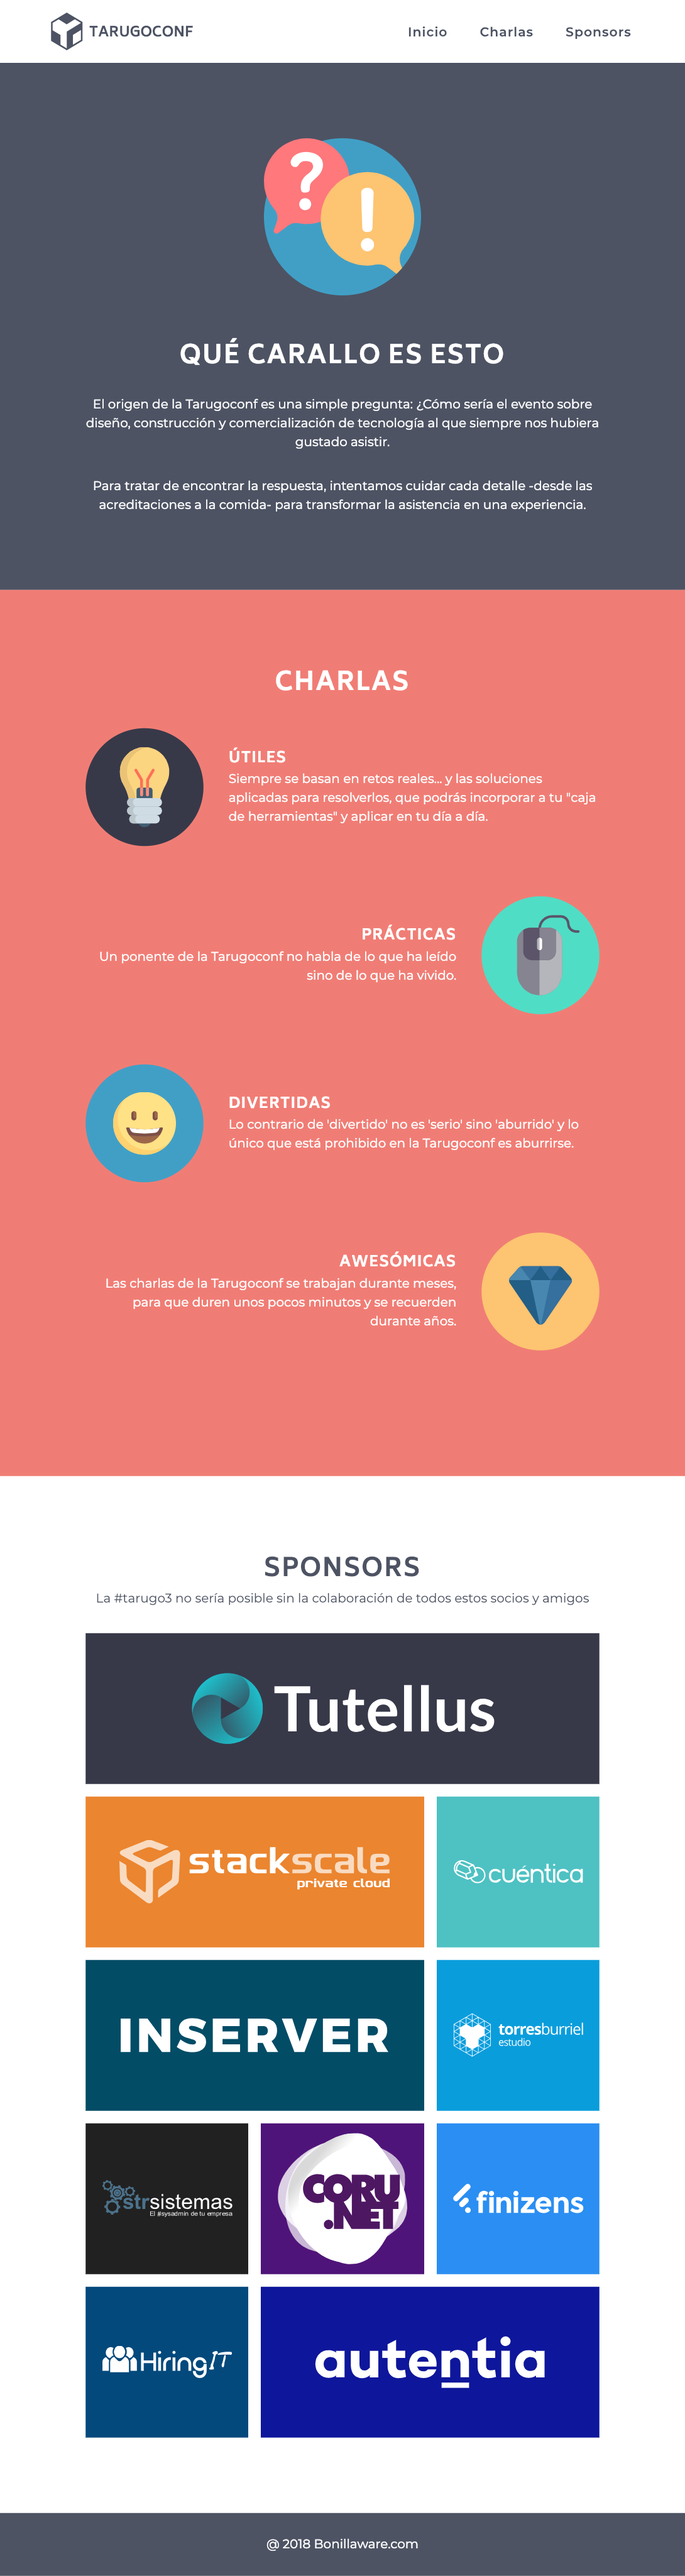
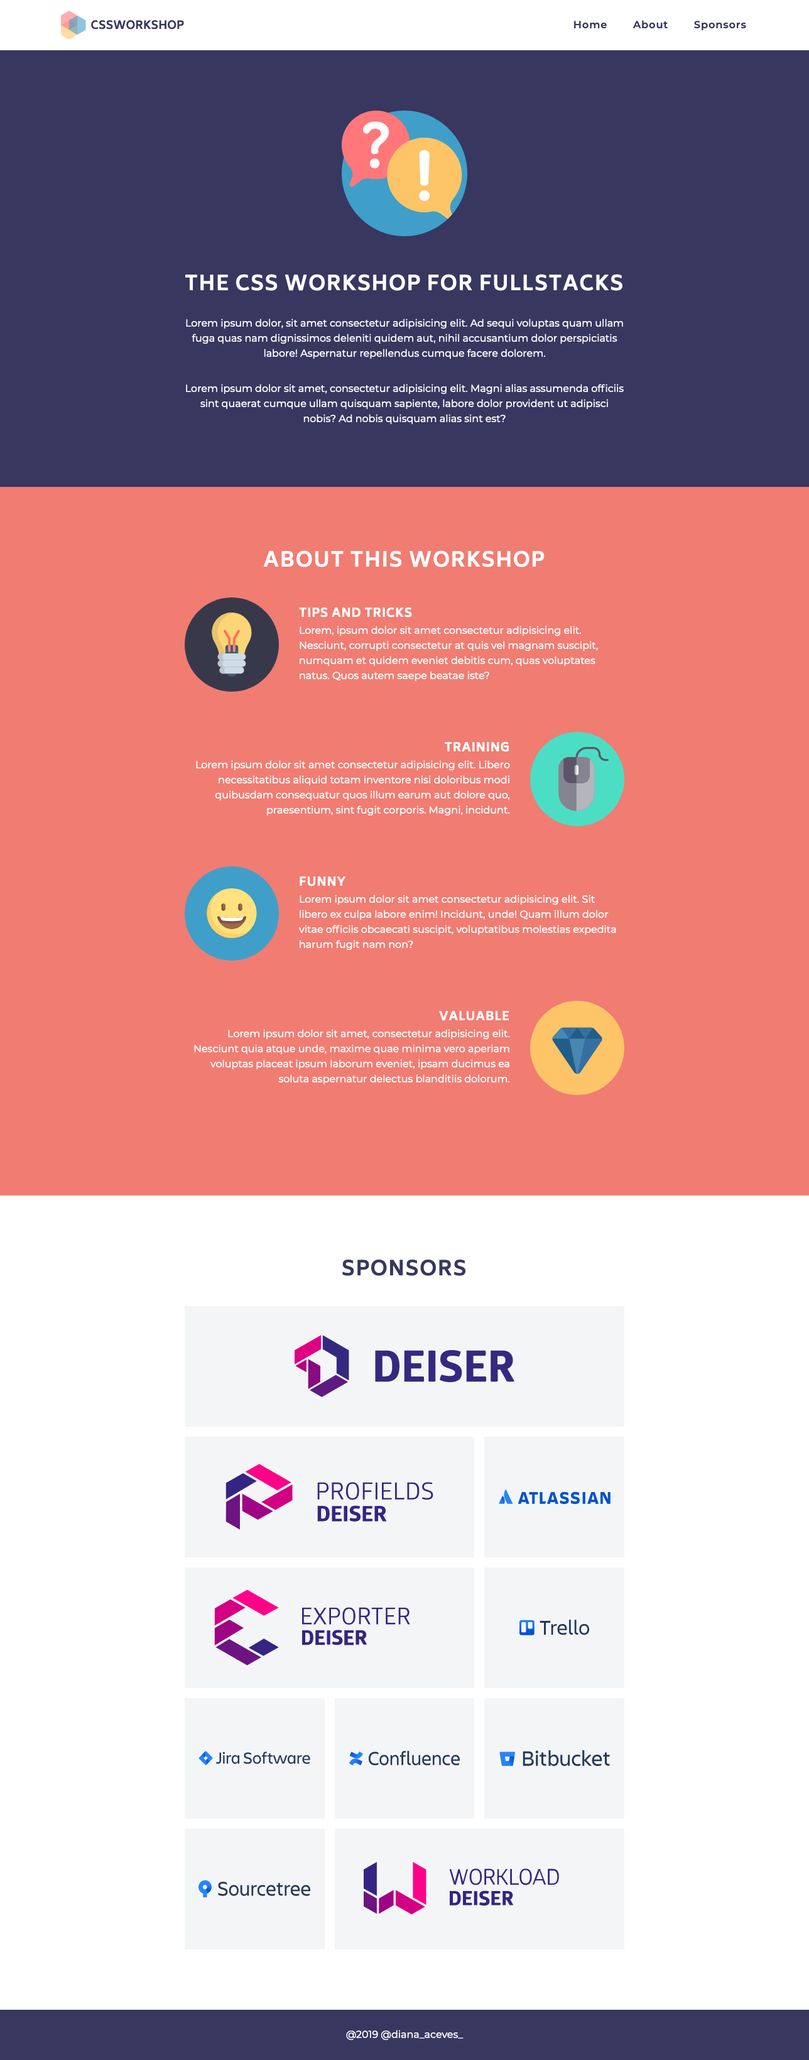
Update new design

diff --git a/dist/css/styles.min.css b/dist/css/styles.min.css
@@ -1,1 +1,1 @@
-:root{font-family:-apple-system, BlinkMacSystemFont, 'Segoe UI', Roboto, 'Helvetica Neue', Oxygen-Sans, Ubuntu, Cantarell, Arial, sans-serif, 'Apple Color Emoji', 'Segoe UI Emoji', 'Segoe UI Symbol';cursor:default;-webkit-box-sizing:border-box;box-sizing:border-box;-webkit-text-size-adjust:100%;-webkit-tap-highlight-color:rgba(0,0,0,0)}*,*::before,*::after,*:before,*:after{-webkit-box-sizing:inherit;box-sizing:inherit}[tabindex='-1']:focus{outline:none !important}@media (prefers-reduced-motion: reduce){*{-webkit-animation:none !important;animation:none !important;-webkit-transition:none !important;transition:none !important}}p{margin-top:0}hr{height:0;overflow:visible;clear:both}pre{overflow-x:auto}ul,ol{list-style-position:inside}figure{width:100%;margin:0}abbr[title]{border-bottom:none;-webkit-text-decoration:underline dotted;text-decoration:underline dotted}code,kbd,samp,pre{font-family:'SFMono-Regular', Consolas, 'Liberation Mono', Menlo, Courier, monospace;font-size:0.9em}b,strong{font-weight:bolder}small{font-size:0.85em}sub,sup{position:relative;font-size:75%;line-height:0;vertical-align:baseline}sub{bottom:-0.25em}sup{top:-0.5em}img,video,audio{max-width:100%;height:auto;vertical-align:middle;-ms-interpolation-mode:bicubic;border-style:none}iframe{border:0}button,input,optgroup,select,textarea{margin:0;font-family:inherit;font-size:1em}button,select{text-transform:none}button,[type='button'],[type='reset'],[type='submit']{-webkit-appearance:button}textarea,[type='email'],[type='password'],[type='search'],[type='tel'],[type='text'],[type='url'],[type='number'],[type='week'],[type='datetime'],input[list]{-webkit-appearance:button}button::-moz-focus-inner,[type='button']::-moz-focus-inner,[type='reset']::-moz-focus-inner,[type='submit']::-moz-focus-inner{padding:0;border-style:none}button:-moz-focusring,[type='button']:-moz-focusring,[type='reset']:-moz-focusring,[type='submit']:-moz-focusring{outline:1px dotted ButtonText}fieldset{padding:0.35em 0.75em 0.625em}legend{padding:0}progress{vertical-align:middle}[type='number']::-webkit-inner-spin-button,[type='number']::-webkit-outer-spin-button{height:auto}[type='search']{outline-offset:-2px;-webkit-appearance:textfield}[type='search']::-webkit-search-decoration{-webkit-appearance:none}::-webkit-file-upload-button{font:inherit;-webkit-appearance:button}pre,code,kbd,samp,var{cursor:text}abbr[title],dfn[title]{cursor:help}textarea,input[type='email'],input[type='password'],input[type='search'],input[type='tel'],input[type='text'],input[type='url'],input[type='number'],input[type='datetime']{cursor:text}select{cursor:context-menu}input[type='range']{cursor:col-resize}[disabled]{cursor:not-allowed !important}summary{display:list-item;outline:0}html,body,div,span,object,iframe,h1,h2,h3,h4,h5,h6,p,blockquote,pre,abbr,address,cite,code,del,dfn,em,img,ins,kbd,q,samp,small,strong,sub,sup,var,b,i,dl,dt,dd,ol,ul,li,fieldset,form,label,legend,table,caption,tbody,tfoot,thead,tr,th,td,article,aside,figure,footer,header,hgroup,menu,nav,section,time,mark,audio,video{margin:0;padding:0;border:0;outline:0;vertical-align:baseline;background:transparent}article,aside,details,figcaption,figure,footer,header,hgroup,main,nav,section,summary,audio,canvas,video{display:block}a{color:inherit;text-decoration:none;background-color:transparent;-webkit-text-decoration-skip:objects}a:active,a:hover,a:focus{outline:0;color:inherit}h1,.h1,h2,.h2,h3,.h3,h4,.h4,h5,.h5,h6,.h6{text-rendering:optimizelegibility}a>svg{pointer-events:none}button{border:none;-webkit-appearance:none;-moz-appearance:none;appearance:none;background-color:transparent;outline:none}ul{list-style:none}body{font-family:'Montserrat', sans-serif;line-height:1.5;background-color:white;font-weight:400;color:#4d5364;overflow-x:hidden;display:-webkit-box;display:-ms-flexbox;display:flex;-webkit-box-orient:vertical;-webkit-box-direction:normal;-ms-flex-direction:column;flex-direction:column;min-height:100vh}h1,h2,h3{font-weight:normal;text-transform:uppercase;font-family:'Biryani'}h2,h3{letter-spacing:.05em}.svg{width:100%;height:100%;display:block}.header--main{position:fixed;width:100%;top:0;left:0;z-index:1;background-color:#fff;font-size:.85em;font-weight:600}.header__wrapper{margin-left:auto;margin-right:auto;max-width:75rem;width:85%;height:5rem;display:-webkit-box;display:-ms-flexbox;display:flex;-webkit-box-align:center;-ms-flex-align:center;align-items:center;-webkit-box-pack:justify;-ms-flex-pack:justify;justify-content:space-between}.logo{color:#4d5364;font-size:1.1rem;display:-webkit-box;display:-ms-flexbox;display:flex;-webkit-box-align:center;-ms-flex-align:center;align-items:center}.logo__icon{height:3rem;width:2.5rem;margin-right:.5rem}.logo__text{position:relative;top:0.1em}.menu{background:#3F9FC9;position:fixed;top:5rem;left:0;width:100%;text-align:center;height:100vh;padding-top:3em;list-style:none;-webkit-transform:translateX(100%);transform:translateX(100%);-webkit-transition:-webkit-transform .6s;transition:-webkit-transform .6s;transition:transform .6s;transition:transform .6s, -webkit-transform .6s}.menu.is-visible{-webkit-transform:translateX(0);transform:translateX(0)}.menu__button{text-transform:uppercase;font-weight:bold;padding:1em;position:relative;left:1em}.menu__item{font-size:1.2em}.menu a{display:block;padding:1.5em 0;color:white;letter-spacing:.05em}.main{margin-top:5rem;-webkit-box-flex:1;-ms-flex-positive:1;flex-grow:1}.section{padding:6rem 0}.section__wrapper{margin-left:auto;margin-right:auto;max-width:43.75rem;width:75%}.section h2{font-size:2em;text-align:center}.intro{background-color:#4d5364;color:white;text-align:center}.intro p:not(:last-child){margin-bottom:2em}.intro .svg-icon{width:12.5rem;height:auto;margin-bottom:3rem}.intro h2{margin-bottom:1.5rem}.talks{background-color:#F17C72;color:white;text-align:center}.talks__item{margin-bottom:4rem}.talks__icon{height:9.375rem;width:9.375rem;border-radius:100%;margin-bottom:2em;display:inline-block}.talks h2{margin-bottom:2rem}.icon-light{background-color:#37394A;padding:1.5rem}.icon-mouse{background-color:#4CDEC4;padding:1.5rem}.icon-mouse img{position:relative;left:.625rem}.icon-happy{background-color:#3F9FC9;padding:2.2em}.icon-diamond{background-color:#FDC468;padding:2.2em}.icon-diamond img{position:relative;top:.3125rem}.sponsors{text-align:center}.sponsors__grid{margin-top:2rem}.sponsors__item{background-repeat:no-repeat;background-size:80% auto;background-position:center;height:10rem;width:100%;margin-bottom:1rem}.sponsors-5{background-size:50% auto}.sponsors-1{background-image:url("../../img/sponsors/logo-1.svg");background-color:#f4f5f7}.sponsors-2{background-image:url("../../img/sponsors/logo-2.svg");background-color:#f4f5f7}.sponsors-3{background-image:url("../../img/sponsors/logo-3.svg");background-color:#f4f5f7}.sponsors-4{background-image:url("../../img/sponsors/logo-4.svg");background-color:#f4f5f7}.sponsors-5{background-image:url("../../img/sponsors/logo-5.svg");background-color:#f4f5f7}.sponsors-6{background-image:url("../../img/sponsors/logo-6.svg");background-color:#f4f5f7}.sponsors-7{background-image:url("../../img/sponsors/logo-7.svg");background-color:#f4f5f7}.sponsors-8{background-image:url("../../img/sponsors/logo-8.svg");background-color:#f4f5f7}.sponsors-9{background-image:url("../../img/sponsors/logo-9.svg");background-color:#f4f5f7}.sponsors-10{background-image:url("../../img/sponsors/logo-10.svg");background-color:#f4f5f7}.footer--main{background-color:#4d5364;color:white;height:5rem;display:-webkit-box;display:-ms-flexbox;display:flex;-webkit-box-align:center;-ms-flex-align:center;align-items:center;-webkit-box-pack:center;-ms-flex-pack:center;justify-content:center}@media screen and (min-width: 37.5em){.menu{background-color:transparent;position:static;height:auto;padding-top:0;-webkit-transform:none;transform:none;-webkit-transition:none;transition:none;display:-webkit-box;display:-ms-flexbox;display:flex;position:relative;top:0;left:1em}.menu__button{display:none}.menu__item{font-size:1.2em}.menu a{padding:1em;margin-left:0.5em;color:#4d5364}.talks{text-align:left}.talks__item{margin-bottom:4rem;display:-webkit-box;display:-ms-flexbox;display:flex;-webkit-box-align:center;-ms-flex-align:center;align-items:center}.talks__item:nth-child(2n){-webkit-box-orient:horizontal;-webkit-box-direction:reverse;-ms-flex-direction:row-reverse;flex-direction:row-reverse;text-align:right}.talks__item:nth-child(2n) .talks__icon{margin-right:0;margin-left:2em}.talks__icon{margin-bottom:0;margin-right:2em;-ms-flex-negative:0;flex-shrink:0}.talks h2{margin-bottom:2rem}.sponsors__grid{margin-top:2rem;display:-ms-grid;display:grid;-ms-grid-columns:(1fr)[3];grid-template-columns:repeat(3, 1fr);grid-auto-rows:12rem;grid-gap:1rem;grid-auto-flow:dense}.sponsors__item{height:auto;width:auto;margin-bottom:0}.sponsors-1{grid-column:span 3;background-size:50% auto}.sponsors-2,.sponsors-3,.sponsors-10{grid-column:span 2}}
+:root{font-family:-apple-system, BlinkMacSystemFont, 'Segoe UI', Roboto, 'Helvetica Neue', Oxygen-Sans, Ubuntu, Cantarell, Arial, sans-serif, 'Apple Color Emoji', 'Segoe UI Emoji', 'Segoe UI Symbol';cursor:default;-webkit-box-sizing:border-box;box-sizing:border-box;-webkit-text-size-adjust:100%;-webkit-tap-highlight-color:rgba(0,0,0,0)}*,*::before,*::after,*:before,*:after{-webkit-box-sizing:inherit;box-sizing:inherit}[tabindex='-1']:focus{outline:none !important}@media (prefers-reduced-motion: reduce){*{-webkit-animation:none !important;animation:none !important;-webkit-transition:none !important;transition:none !important}}p{margin-top:0}hr{height:0;overflow:visible;clear:both}pre{overflow-x:auto}ul,ol{list-style-position:inside}figure{width:100%;margin:0}abbr[title]{border-bottom:none;-webkit-text-decoration:underline dotted;text-decoration:underline dotted}code,kbd,samp,pre{font-family:'SFMono-Regular', Consolas, 'Liberation Mono', Menlo, Courier, monospace;font-size:0.9em}b,strong{font-weight:bolder}small{font-size:0.85em}sub,sup{position:relative;font-size:75%;line-height:0;vertical-align:baseline}sub{bottom:-0.25em}sup{top:-0.5em}img,video,audio{max-width:100%;height:auto;vertical-align:middle;-ms-interpolation-mode:bicubic;border-style:none}iframe{border:0}button,input,optgroup,select,textarea{margin:0;font-family:inherit;font-size:1em}button,select{text-transform:none}button,[type='button'],[type='reset'],[type='submit']{-webkit-appearance:button}textarea,[type='email'],[type='password'],[type='search'],[type='tel'],[type='text'],[type='url'],[type='number'],[type='week'],[type='datetime'],input[list]{-webkit-appearance:button}button::-moz-focus-inner,[type='button']::-moz-focus-inner,[type='reset']::-moz-focus-inner,[type='submit']::-moz-focus-inner{padding:0;border-style:none}button:-moz-focusring,[type='button']:-moz-focusring,[type='reset']:-moz-focusring,[type='submit']:-moz-focusring{outline:1px dotted ButtonText}fieldset{padding:0.35em 0.75em 0.625em}legend{padding:0}progress{vertical-align:middle}[type='number']::-webkit-inner-spin-button,[type='number']::-webkit-outer-spin-button{height:auto}[type='search']{outline-offset:-2px;-webkit-appearance:textfield}[type='search']::-webkit-search-decoration{-webkit-appearance:none}::-webkit-file-upload-button{font:inherit;-webkit-appearance:button}pre,code,kbd,samp,var{cursor:text}abbr[title],dfn[title]{cursor:help}textarea,input[type='email'],input[type='password'],input[type='search'],input[type='tel'],input[type='text'],input[type='url'],input[type='number'],input[type='datetime']{cursor:text}select{cursor:context-menu}input[type='range']{cursor:col-resize}[disabled]{cursor:not-allowed !important}summary{display:list-item;outline:0}html,body,div,span,object,iframe,h1,h2,h3,h4,h5,h6,p,blockquote,pre,abbr,address,cite,code,del,dfn,em,img,ins,kbd,q,samp,small,strong,sub,sup,var,b,i,dl,dt,dd,ol,ul,li,fieldset,form,label,legend,table,caption,tbody,tfoot,thead,tr,th,td,article,aside,figure,footer,header,hgroup,menu,nav,section,time,mark,audio,video{margin:0;padding:0;border:0;outline:0;vertical-align:baseline;background:transparent}article,aside,details,figcaption,figure,footer,header,hgroup,main,nav,section,summary,audio,canvas,video{display:block}a{color:inherit;text-decoration:none;background-color:transparent;-webkit-text-decoration-skip:objects}a:active,a:hover,a:focus{outline:0;color:inherit}h1,.h1,h2,.h2,h3,.h3,h4,.h4,h5,.h5,h6,.h6{text-rendering:optimizelegibility}a>svg{pointer-events:none}button{border:none;-webkit-appearance:none;-moz-appearance:none;appearance:none;background-color:transparent;outline:none}ul{list-style:none}body{font-family:'Montserrat', sans-serif;line-height:1.5;background-color:white;font-weight:400;color:#373760}h1,h2,h3{font-weight:normal;text-transform:uppercase;font-family:'Biryani'}h2,h3{letter-spacing:.05em}.svg{width:100%;height:100%;display:block}.header--main{background-color:#fff;font-size:.85em;font-weight:600}.header__wrapper{margin-left:auto;margin-right:auto;max-width:75rem;width:85%}.logo{color:#373760;font-size:1.1rem}.logo__icon{height:3rem;width:2.5rem;margin-right:.5rem}.logo__text{position:relative;top:0.1em}.menu{background:#3F9FC9;position:fixed;top:5rem;left:0;width:100%;text-align:center;height:100vh;padding-top:3em;list-style:none;-webkit-transform:translateX(100%);transform:translateX(100%);-webkit-transition:-webkit-transform .6s;transition:-webkit-transform .6s;transition:transform .6s;transition:transform .6s, -webkit-transform .6s}.menu.is-visible{-webkit-transform:translateX(0);transform:translateX(0)}.menu__button{text-transform:uppercase;font-weight:bold;padding:1em}.menu__item{font-size:1.2em}.menu a{display:block;padding:1.5em 0;color:white;letter-spacing:.05em}.footer--main{background-color:#373760;color:white;height:5rem}

diff --git a/src/scss/_utils.scss b/src/scss/_utils.scss
@@ -28,7 +28,7 @@ $bold:   600;
 $blue: #3F9FC9;
 $green: #4CDEC4;
 $orange:#FDC468;
-$blue-dark: #4d5364;
+$blue-dark: #373760;
 
 //Text
 $text-color: $blue-dark;
